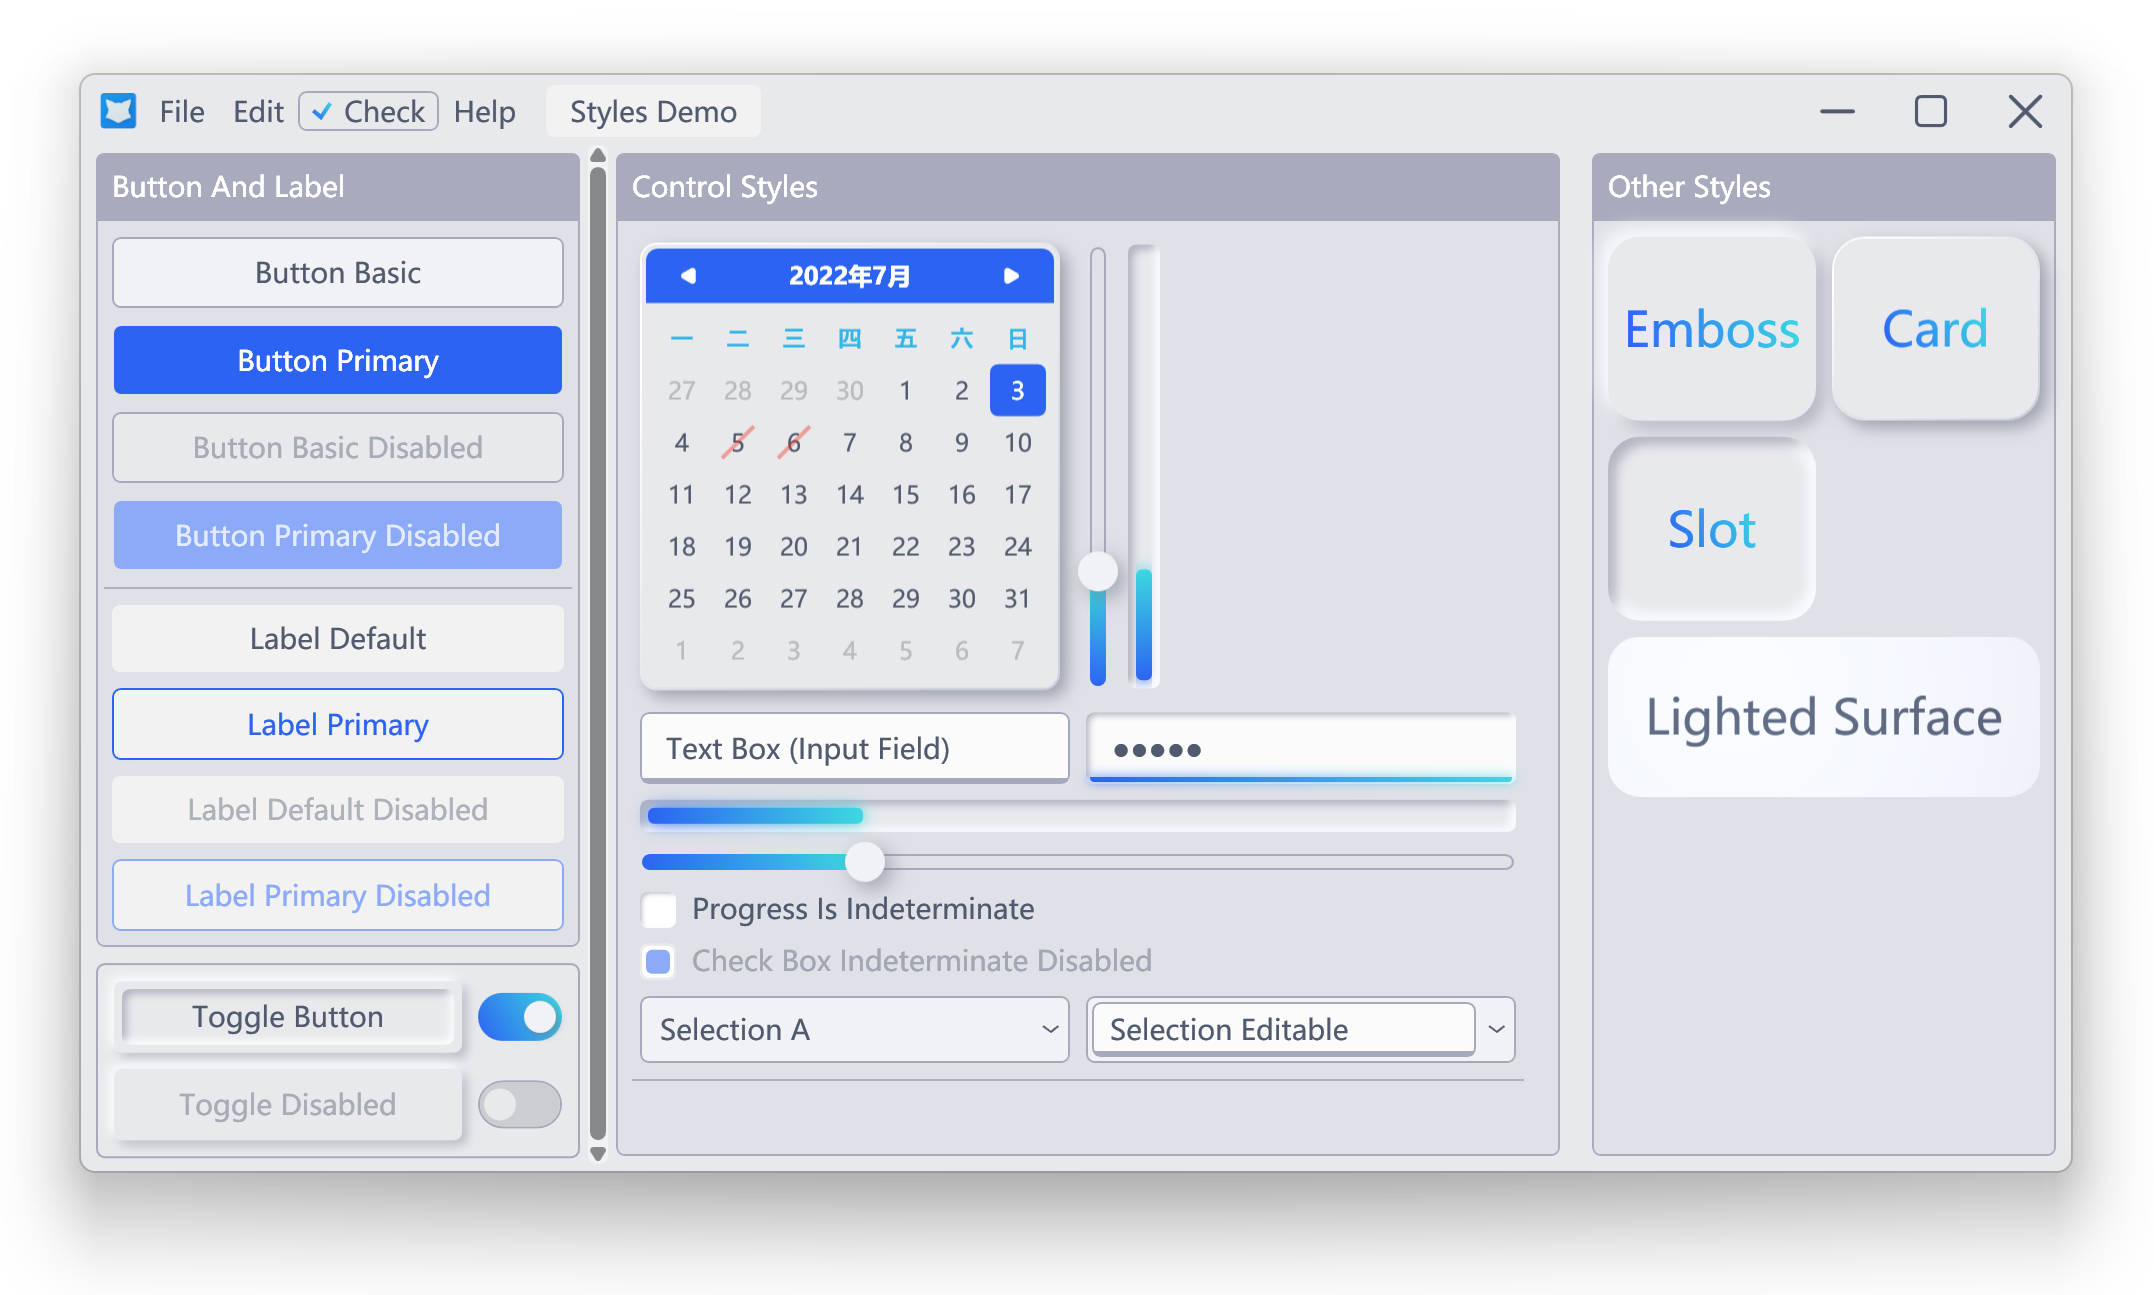
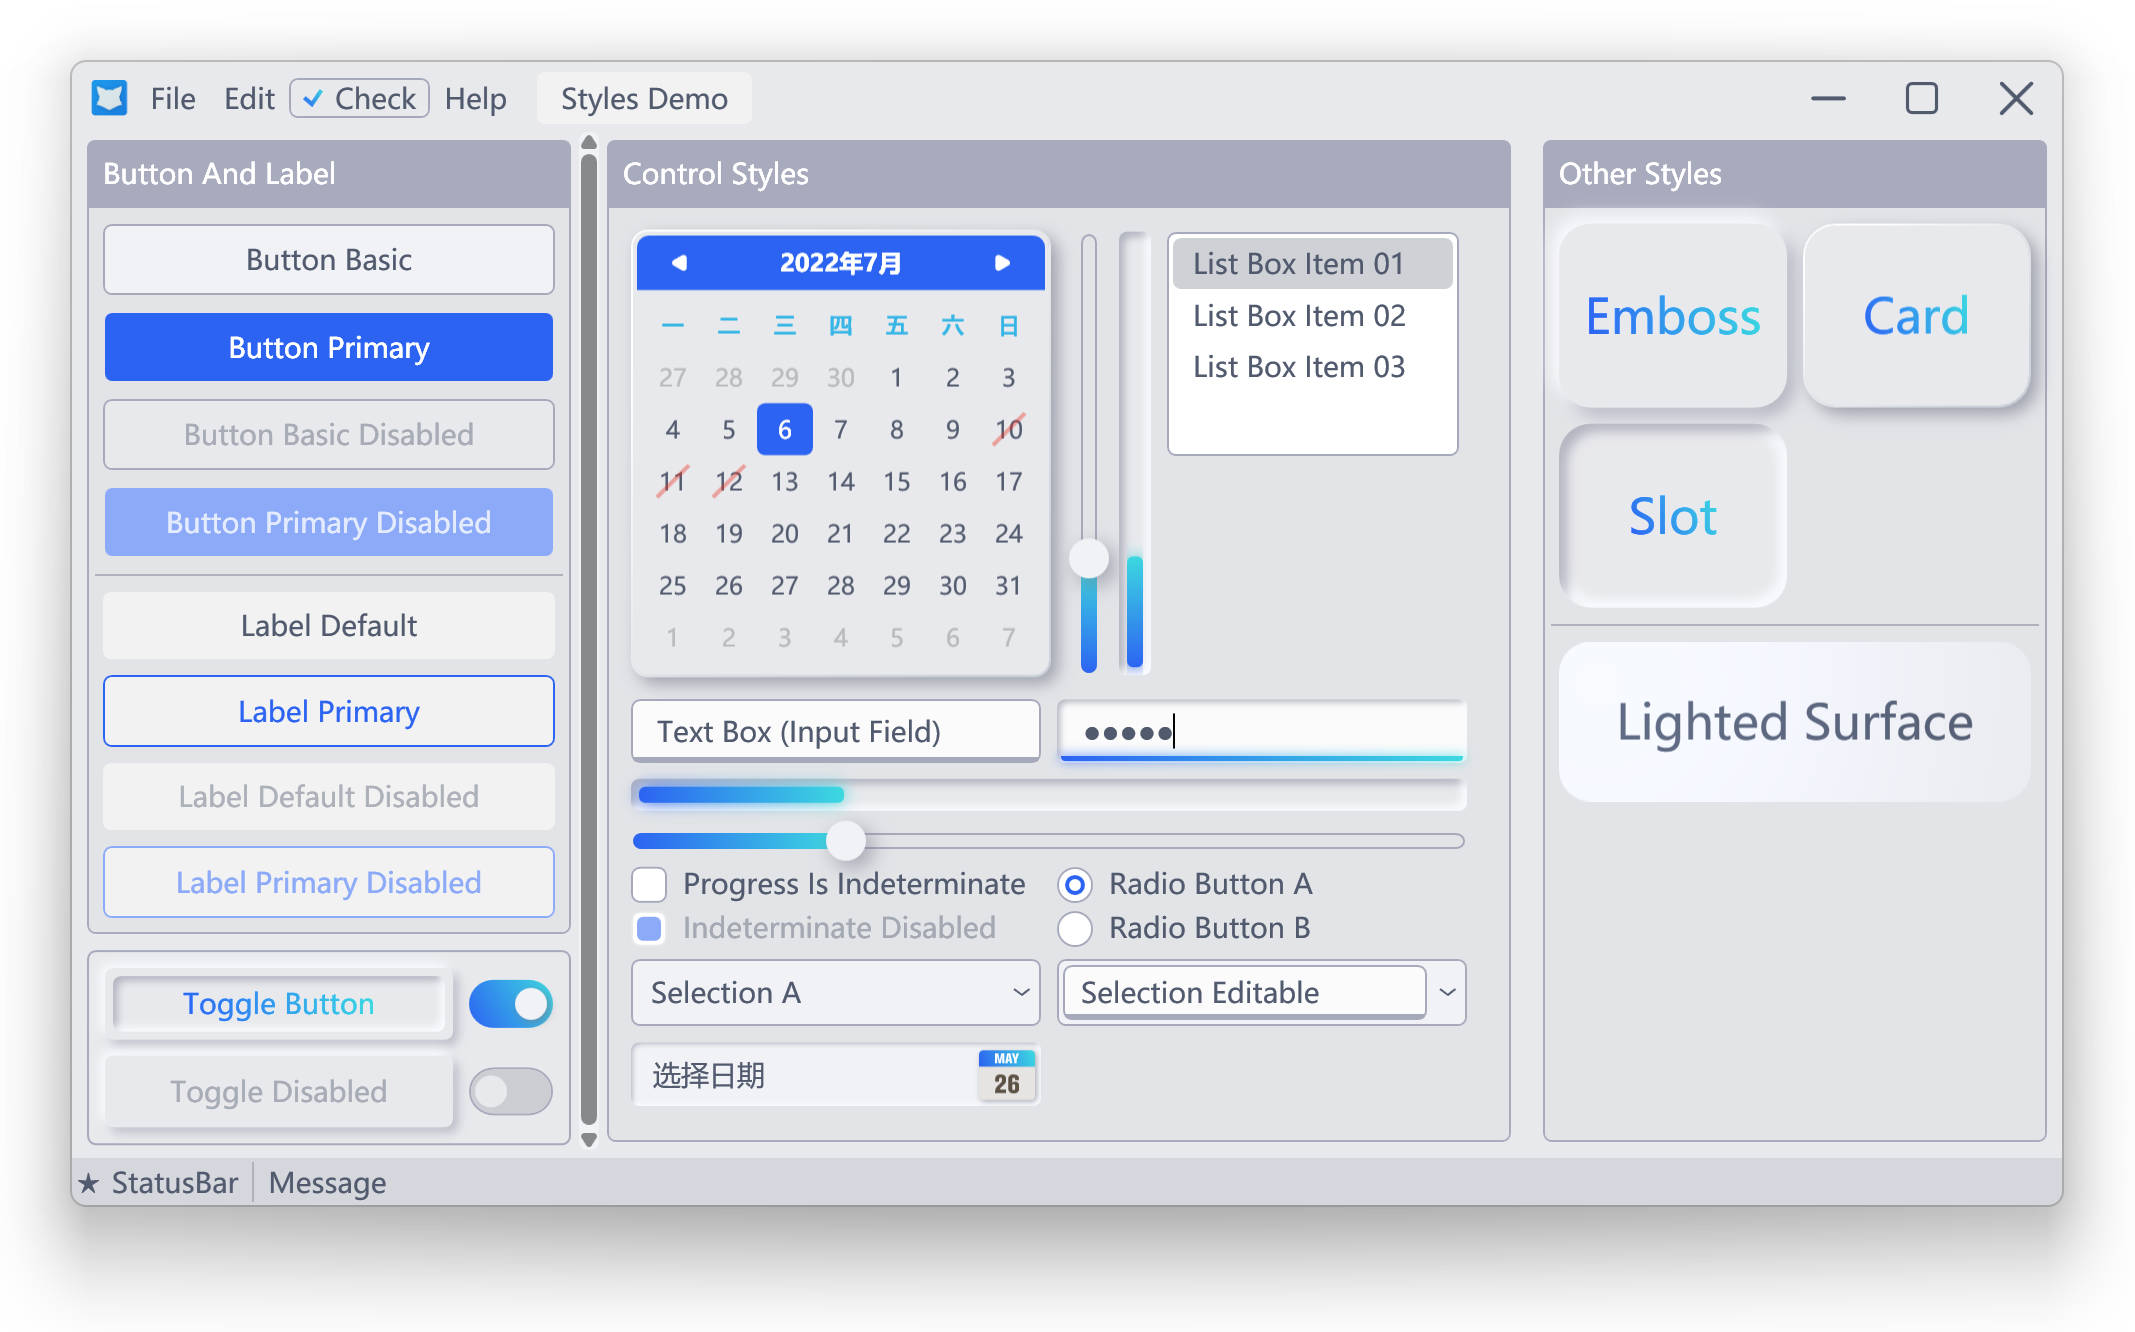
Add ListBox style
添加列表样式

Changed region(s): [[0.0309, 0.0309, 0.9583, 0.8958], [0.9583, 0.5869, 0.9892, 0.8649]]

diff --git a/SyminUI/Themes/Styles/ListBoxStyle.xaml b/SyminUI/Themes/Styles/ListBoxStyle.xaml
@@ -1,0 +1,113 @@
+<ResourceDictionary xmlns="http://schemas.microsoft.com/winfx/2006/xaml/presentation"
+                    xmlns:x="http://schemas.microsoft.com/winfx/2006/xaml">
+    
+    <Style x:Key="ListBoxItemContainerDefault" TargetType="{x:Type ListBoxItem}">
+        <Setter Property="SnapsToDevicePixels" Value="True"/>
+        <Setter Property="Padding" Value="10,4"/>
+        <Setter Property="HorizontalContentAlignment" 
+                    Value="{Binding HorizontalContentAlignment, 
+                        RelativeSource={RelativeSource AncestorType={x:Type ItemsControl}}}"/>
+        <Setter Property="VerticalContentAlignment" 
+                    Value="{Binding VerticalContentAlignment, 
+                        RelativeSource={RelativeSource AncestorType={x:Type ItemsControl}}}"/>
+        <Setter Property="Background" Value="Transparent"/>
+        <Setter Property="BorderBrush" Value="Transparent"/>
+        <Setter Property="BorderThickness" Value="0"/>
+        <Setter Property="FocusVisualStyle" Value="{StaticResource FocusVisual}"/>
+        <Setter Property="Template">
+            <Setter.Value>
+                <ControlTemplate TargetType="{x:Type ListBoxItem}">
+                    <Border x:Name="Bd" CornerRadius="4"
+                                Background="{TemplateBinding Background}"
+                                BorderBrush="{TemplateBinding BorderBrush}" 
+                                BorderThickness="{TemplateBinding BorderThickness}" 
+                                Padding="{TemplateBinding Padding}" 
+                                SnapsToDevicePixels="true">
+                        <ContentPresenter HorizontalAlignment="{TemplateBinding HorizontalContentAlignment}"
+                                              SnapsToDevicePixels="{TemplateBinding SnapsToDevicePixels}" 
+                                              VerticalAlignment="{TemplateBinding VerticalContentAlignment}"/>
+                    </Border>
+                    <ControlTemplate.Triggers>
+                        <MultiTrigger>
+                            <MultiTrigger.Conditions>
+                                <Condition Property="IsMouseOver" Value="True"/>
+                            </MultiTrigger.Conditions>
+                            <Setter Property="Background" TargetName="Bd" 
+                                        Value="{StaticResource Background.SelectedMask}"/>
+                        </MultiTrigger>
+                        <!--选中对象无焦点-->
+                        <MultiTrigger>
+                            <MultiTrigger.Conditions>
+                                <Condition Property="Selector.IsSelectionActive" Value="False"/>
+                                <Condition Property="IsSelected" Value="True"/>
+                            </MultiTrigger.Conditions>
+                            <Setter Property="Background" TargetName="Bd" 
+                                        Value="{StaticResource Background.FocusedMask}"/>
+                        </MultiTrigger>
+                        <!--选中对象有焦点-->
+                        <MultiTrigger>
+                            <MultiTrigger.Conditions>
+                                <Condition Property="Selector.IsSelectionActive" Value="True"/>
+                                <Condition Property="IsSelected" Value="True"/>
+                            </MultiTrigger.Conditions>
+                            <Setter Property="Background" TargetName="Bd" 
+                                        Value="{StaticResource PrimaryBrush}"/>
+                            <Setter Property="TextElement.Foreground" TargetName="Bd"
+                                        Value="{StaticResource Text.Contrast}"/>
+                        </MultiTrigger>
+                        <Trigger Property="IsEnabled" Value="False">
+                            <Setter Property="TextElement.Foreground" TargetName="Bd"
+                                        Value="{StaticResource Text.Main.Disabled}"/>
+                        </Trigger>
+                    </ControlTemplate.Triggers>
+                </ControlTemplate>
+            </Setter.Value>
+        </Setter>
+    </Style>
+    <Style TargetType="{x:Type ListBoxItem}" BasedOn="{StaticResource ListBoxItemContainerDefault}"/>
+
+    <Style TargetType="{x:Type ListBox}">
+        <Setter Property="Background" Value="{StaticResource Background.Pure}"/>
+        <Setter Property="BorderBrush" Value="{StaticResource Border.MainBrush}"/>
+        <Setter Property="BorderThickness" Value="1"/>
+        <Setter Property="Foreground" Value="{StaticResource Text.Main}"/>
+        <Setter Property="FontSize" Value="14"/>
+        <Setter Property="ScrollViewer.HorizontalScrollBarVisibility" Value="Auto"/>
+        <Setter Property="ScrollViewer.VerticalScrollBarVisibility" Value="Auto"/>
+        <Setter Property="ScrollViewer.CanContentScroll" Value="true"/>
+        <Setter Property="ScrollViewer.PanningMode" Value="Both"/>
+        <Setter Property="Stylus.IsFlicksEnabled" Value="False"/>
+        <Setter Property="VerticalContentAlignment" Value="Center"/>
+        <Setter Property="ItemContainerStyle" Value="{StaticResource ListBoxItemContainerDefault}"/>
+        <Setter Property="Template">
+            <Setter.Value>
+                <ControlTemplate TargetType="{x:Type ListBox}">
+                    <Border x:Name="Bd" Padding="2" CornerRadius="4"
+                                Background="{TemplateBinding Background}" 
+                                BorderBrush="{TemplateBinding BorderBrush}" 
+                                BorderThickness="{TemplateBinding BorderThickness}"  
+                                SnapsToDevicePixels="true">
+                        <ScrollViewer Focusable="false" 
+                                          Padding="{TemplateBinding Padding}">
+                            <ItemsPresenter SnapsToDevicePixels="{TemplateBinding SnapsToDevicePixels}"/>
+                        </ScrollViewer>
+                    </Border>
+                    <ControlTemplate.Triggers>
+                        <Trigger Property="IsEnabled" Value="false">
+                            <Setter Property="Background" TargetName="Bd" 
+                                        Value="{StaticResource Background.Button.Disabled}"/>
+                        </Trigger>
+                        <MultiTrigger>
+                            <MultiTrigger.Conditions>
+                                <Condition Property="IsGrouping" Value="true"/>
+                                <Condition Property="VirtualizingPanel.IsVirtualizingWhenGrouping" 
+                                               Value="false"/>
+                            </MultiTrigger.Conditions>
+                            <Setter Property="ScrollViewer.CanContentScroll" Value="false"/>
+                        </MultiTrigger>
+                    </ControlTemplate.Triggers>
+                </ControlTemplate>
+            </Setter.Value>
+        </Setter>
+    </Style>
+</ResourceDictionary>

diff --git a/SyminViewTest/StyleTestWindow.xaml b/SyminViewTest/StyleTestWindow.xaml
@@ -126,13 +126,32 @@
                                     </CalendarDateRange>
                                 </Calendar.BlackoutDates>
                             </Calendar>
-                            <StackPanel Grid.Column="1" Margin="4"
-                                    Orientation="Horizontal">
-                                <Slider x:Name="ProgressVerticalSlider" Orientation="Vertical"
-                                    Minimum="0" Maximum="100" Value="25" />
-                                <ProgressBar Orientation="Vertical" Minimum="0" Maximum="100"
-                                         Width="24" Value="{Binding ElementName=ProgressVerticalSlider,Path=Value}" />
-                            </StackPanel>
+                            <Grid Grid.Column="1" Margin="4">
+                                <Grid.ColumnDefinitions>
+                                    <ColumnDefinition Width="auto"/>
+                                    <ColumnDefinition Width="24"/>
+                                    <ColumnDefinition Width="*"/>
+                                </Grid.ColumnDefinitions>
+
+                                <Slider Grid.Column="0"
+                                        x:Name="ProgressVerticalSlider" Orientation="Vertical"
+                                        Minimum="0" Maximum="100" Value="25" />
+                                <ProgressBar Grid.Column="1"
+                                             Orientation="Vertical" Minimum="0" Maximum="100"
+                                             Value="{Binding ElementName=ProgressVerticalSlider,Path=Value}" />
+                                <Grid Grid.Column="2">
+                                    <Grid.RowDefinitions>
+                                        <RowDefinition Height="120"/>
+                                        <RowDefinition Height="*"/>
+                                    </Grid.RowDefinitions>
+                                    <ListBox  Margin="4" SelectedIndex="0">
+                                        <ListBoxItem>List Box Item 01</ListBoxItem>
+                                        <ListBoxItem>List Box Item 02</ListBoxItem>
+                                        <ListBoxItem>List Box Item 03</ListBoxItem>
+                                    </ListBox>
+                                </Grid>
+                                
+                            </Grid>
                         </Grid>
                         <UniformGrid Columns="2">
                             <TextBox Text="Text Box (Input Field)" />

diff --git a/SyminUI/Themes/Styles/DatePickerStyle.xaml b/SyminUI/Themes/Styles/DatePickerStyle.xaml
@@ -186,6 +186,7 @@
                                            Focusable="{TemplateBinding Focusable}"
                                            HorizontalContentAlignment="Left"
                                            VerticalContentAlignment="Center" />
+                        <Border Width="40" HorizontalAlignment="Right" Background="Transparent"/>
                         <Button x:Name="PART_Button" Margin="7,8,7,7"
                                 Width="28" HorizontalAlignment="Right"
                                 Style="{StaticResource CalendarPickerButton}" />

diff --git a/SyminViewTest/DevelopingWindow.xaml b/SyminViewTest/DevelopingWindow.xaml
@@ -15,14 +15,8 @@
 
     <Window.Resources>
 
-
     </Window.Resources>
-    <StackPanel Orientation="Vertical">
-        <Border Background="#1f59a7" Height="20"/>
-        <Border Background="#1f59a7" Height="20">
-            <Border.Effect>
-                <sve:BrightnessContrastEffect Brightness="0.1"/>
-            </Border.Effect>
-        </Border>
-    </StackPanel>
+    <Grid Margin="4">
+
+    </Grid>
 </Window>

diff --git a/SyminUI/Themes/SyminStyle.xaml b/SyminUI/Themes/SyminStyle.xaml
@@ -21,6 +21,7 @@
         <ResourceDictionary Source="Styles/DatePickerStyle.xaml"/>
         <ResourceDictionary Source="Styles/StatusBarStyle.xaml"/>
         <ResourceDictionary Source="Styles/MenuStyle.xaml"/>
+        <ResourceDictionary Source="Styles/ListBoxStyle.xaml"/>
     </ResourceDictionary.MergedDictionaries>
 
 </ResourceDictionary>
